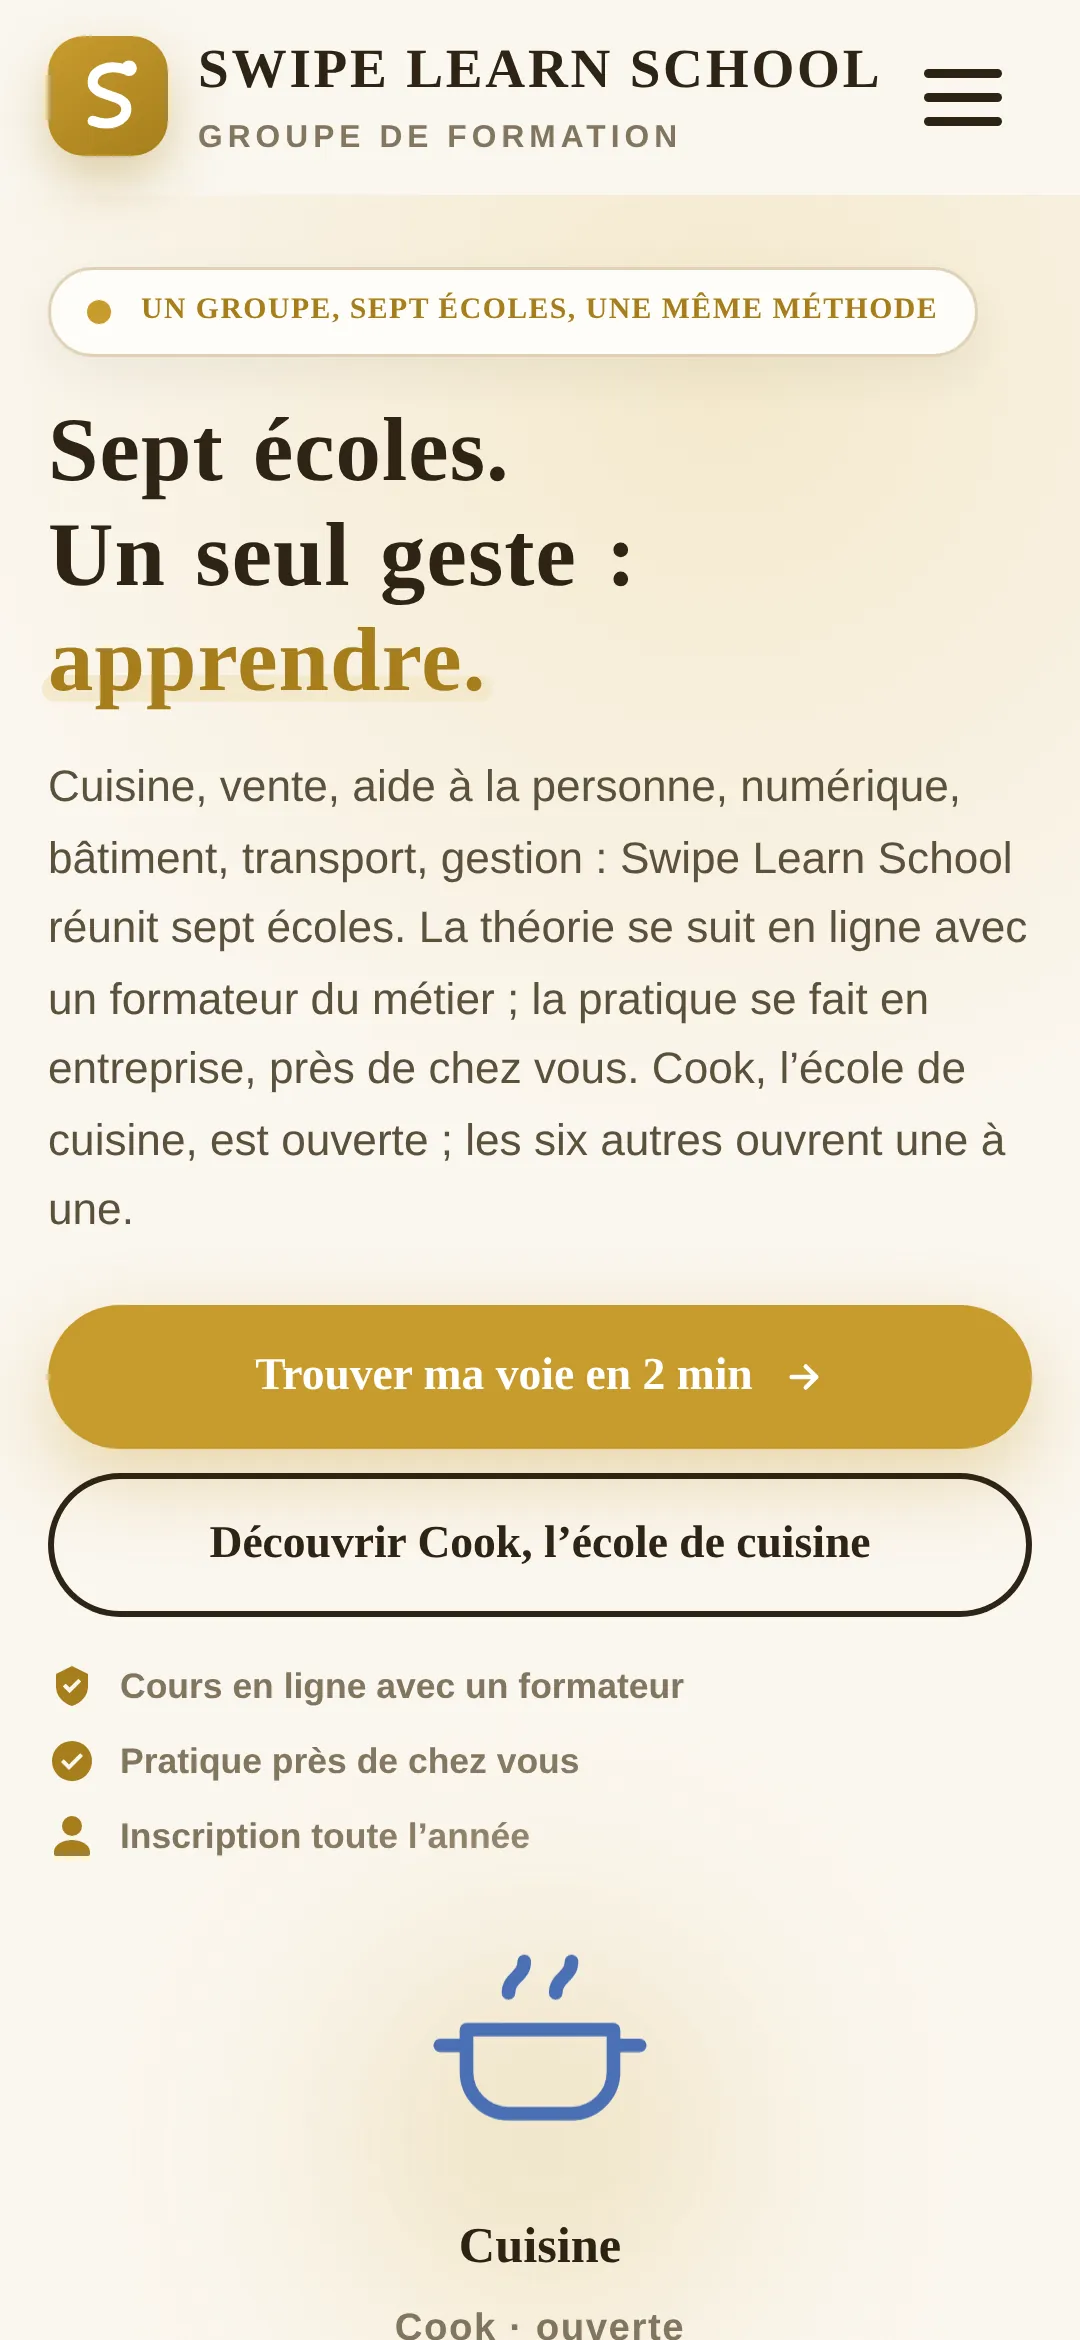
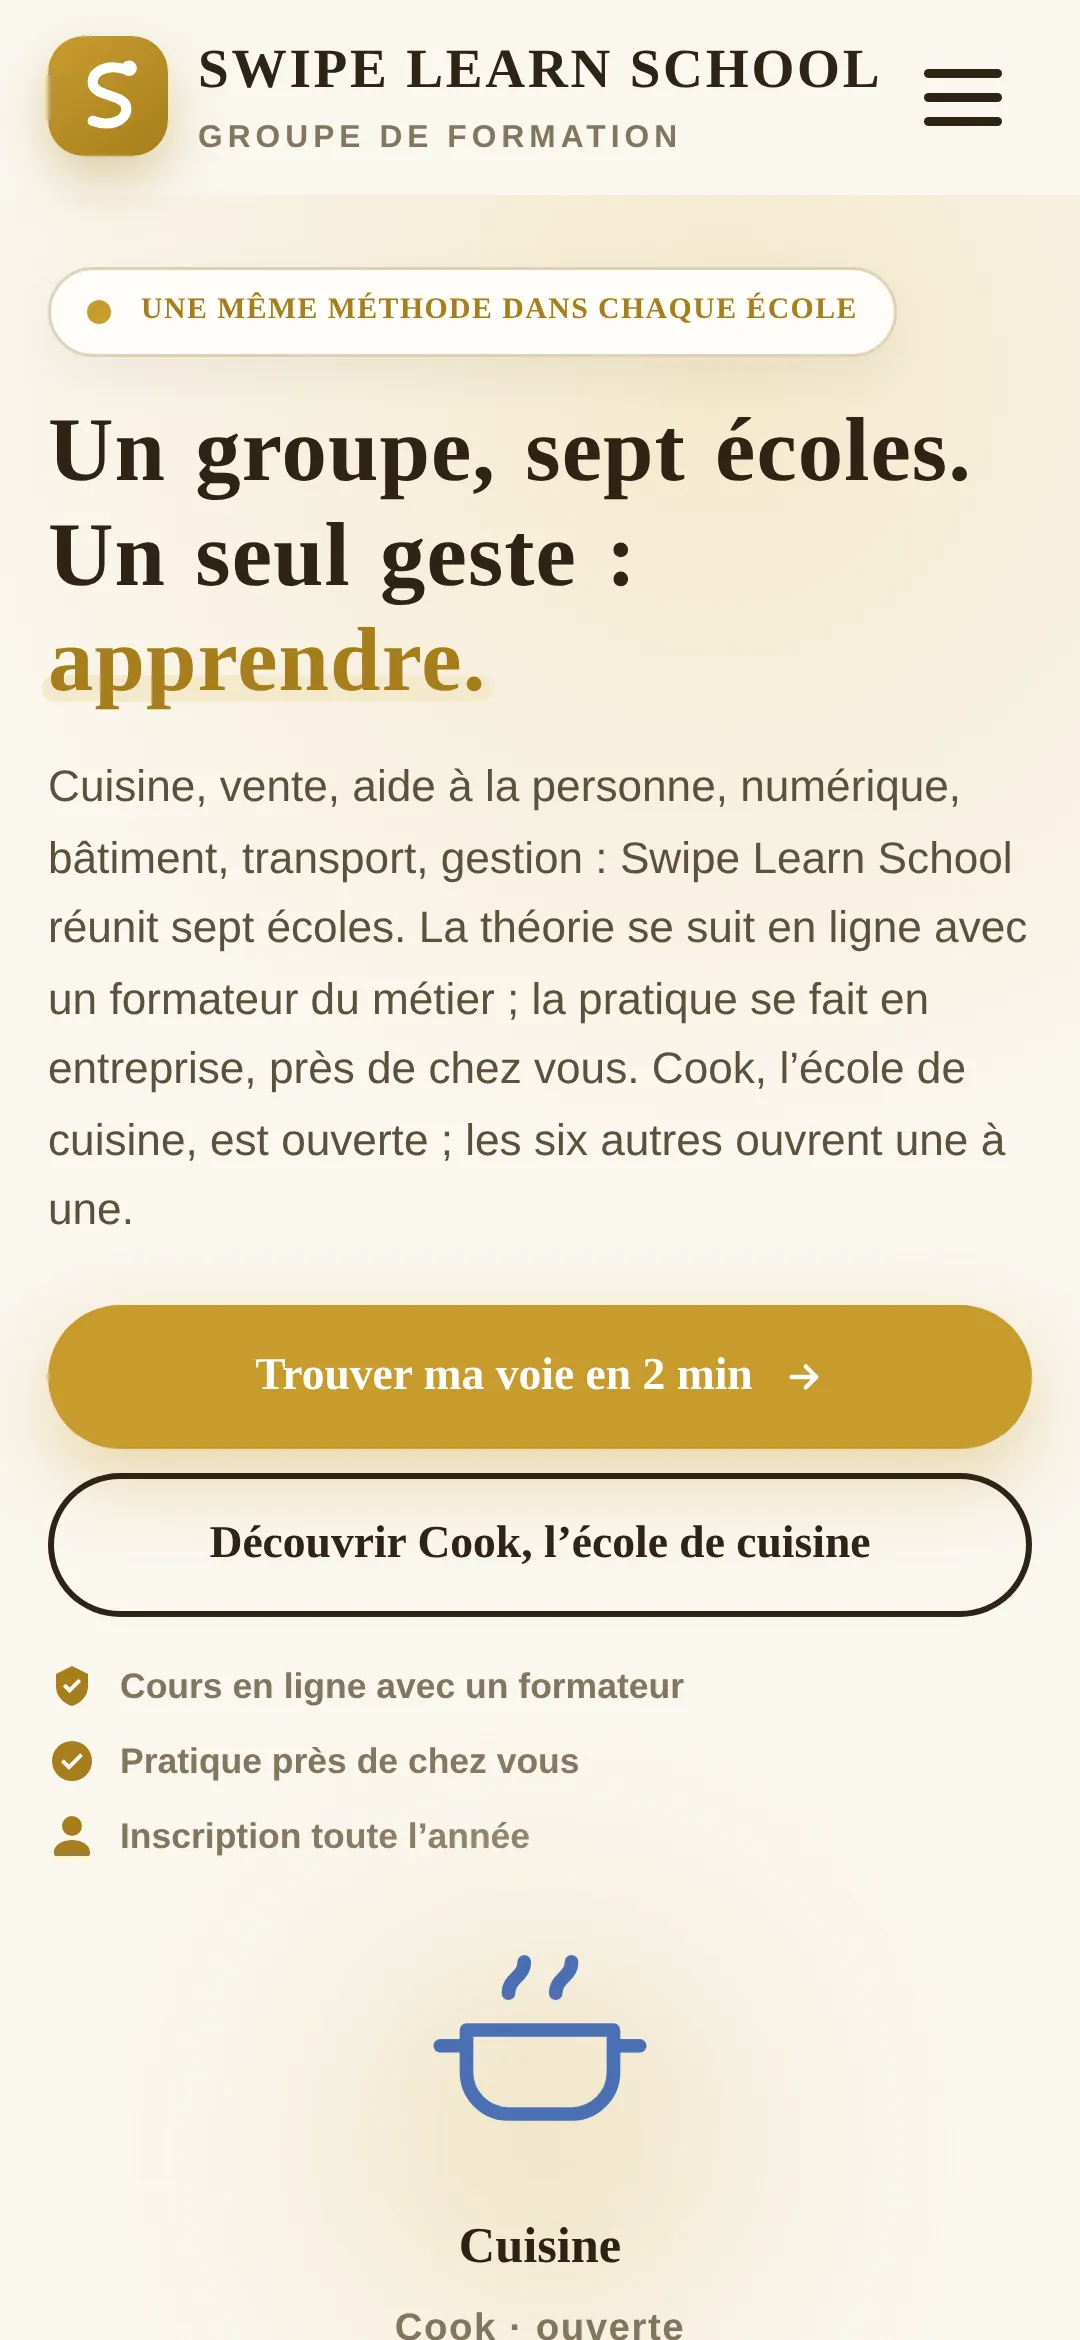
Accueil : « Un groupe, sept écoles. Un seul geste : apprendre. »
Claude-Session: https://claude.ai/code/session_01QaX94EqbNbtaqKYhcMyNq7

diff --git a/public/index.html b/public/index.html
@@ -514,8 +514,8 @@ footer li i{display:inline-block;width:9px;height:9px;border-radius:3px;margin-r
 <header class="hero">
   <div class="wrap">
     <div class="rv on">
-      <span class="sur"><i></i>Un groupe, sept écoles, une même méthode</span>
-      <h1>Sept écoles.<br>Un seul geste : <span class="m">apprendre.</span></h1>
+      <span class="sur"><i></i>Une même méthode dans chaque école</span>
+      <h1>Un groupe, sept écoles.<br>Un seul geste&nbsp;: <span class="m">apprendre.</span></h1>
       <p>Cuisine, vente, aide à la personne, numérique, bâtiment, transport, gestion : Swipe Learn School réunit sept écoles. La théorie se suit en ligne avec un formateur du métier ; la pratique se fait en entreprise, près de chez vous. Cook, l’école de cuisine, est ouverte ; les six autres ouvrent une à une.</p>
       <div class="hero-actions">
         <a class="btn btn-m" href="#quiz">Trouver ma voie en 2 min<svg class="fl" viewBox="0 0 24 24" fill="none" stroke="currentColor" stroke-width="2.6" stroke-linecap="round" stroke-linejoin="round"><path d="M5 12h14M13 6l6 6-6 6"/></svg></a>

diff --git a/outils/construire.py b/outils/construire.py
@@ -64,7 +64,8 @@ rep('<a class="brand" href="#">', '<a class="brand" href="/">')
 rep_re(r'<li><a href="#quiz">Test d\'orientation</a></li>\s*<li><a href="#ecoles">Nos 7 écoles</a></li>', '<li><a href="#ecoles">Nos écoles</a></li><li><a href="#intensif">CAP intensif</a></li>')
 
 # ------------------------------------------------------------------ accueil (hero)
-rep('<span class="sur"><i></i>Le groupe qui forme aux métiers qui recrutent</span>', '<span class="sur"><i></i>Un groupe, sept écoles, une même méthode</span>')
+rep('<span class="sur"><i></i>Le groupe qui forme aux métiers qui recrutent</span>', '<span class="sur"><i></i>Une même méthode dans chaque école</span>')
+rep('<h1>Sept écoles.<br>Un seul geste : <span class="m">apprendre.</span></h1>', '<h1>Un groupe, sept écoles.<br>Un seul geste&nbsp;: <span class="m">apprendre.</span></h1>')
 rep_re(r'<p>Cuisine, vente, santé, numérique, bâtiment, transport, gestion : Swipe and Learn réunit sept écoles.*?</p>',
        '<p>Cuisine, vente, aide à la personne, numérique, bâtiment, transport, gestion : Swipe Learn School réunit sept écoles. La théorie se suit en ligne avec un formateur du métier ; la pratique se fait en entreprise, près de chez vous. Cook, l’école de cuisine, est ouverte ; les six autres ouvrent une à une.</p>')
 rep_re(r'<a class="btn btn-ghost" href="#ecoles">Voir les écoles</a>', f'<a class="btn btn-ghost" href="{COOK}/">Découvrir Cook, l’école de cuisine</a>')
